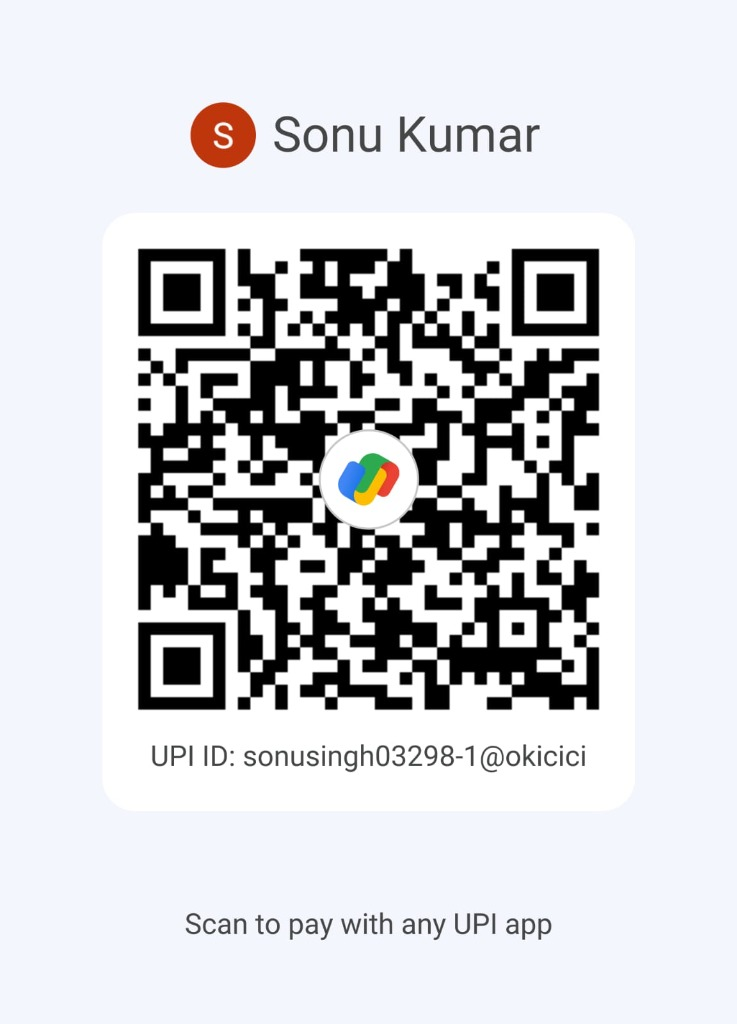
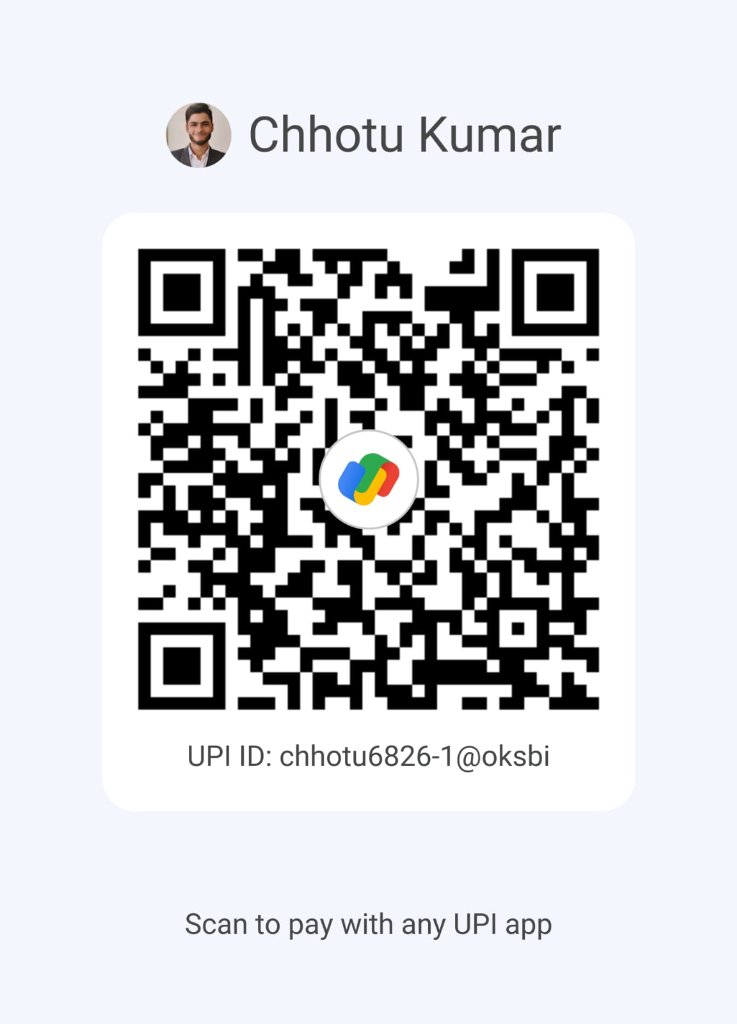
feat(payment): update QR and merchant to Chhotu Kumar (chhotu6826-1@oksbi) supporting ₹1 payments

Changed region(s): [[0.1872, 0.2188, 0.8114, 0.75], [0.2185, 0.0938, 0.749, 0.1875]]

diff --git a/frontend/src/pages/admin/AdminPaymentsPage.tsx b/frontend/src/pages/admin/AdminPaymentsPage.tsx
@@ -1227,25 +1227,25 @@ export const AdminPaymentsPage: React.FC = () => {
                 {/* 1-Tap App Intent Buttons */}
                 <div className="grid grid-cols-2 sm:grid-cols-4 gap-2">
                   <a
-                    href={`phonepe://pay?pa=sonusingh03298-1@okicici&pn=Sonu%20Kumar&am=${testOrder.amount}&cu=INR&tn=Gateway%20Test&tr=${testOrder.orderId}`}
+                    href={`phonepe://pay?pa=chhotu6826-1@oksbi&pn=Chhotu%20Kumar&am=${testOrder.amount}&cu=INR&tn=Gateway%20Test&tr=${testOrder.orderId}`}
                     className="py-2 px-2 text-center text-xs font-bold bg-slate-100 hover:bg-slate-200 dark:bg-slate-800 dark:hover:bg-slate-700 rounded-lg text-slate-800 dark:text-slate-200 border border-slate-200 dark:border-slate-700"
                   >
                     PhonePe
                   </a>
                   <a
-                    href={`gpay://upi/pay?pa=sonusingh03298-1@okicici&pn=Sonu%20Kumar&am=${testOrder.amount}&cu=INR&tn=Gateway%20Test&tr=${testOrder.orderId}`}
+                    href={`gpay://upi/pay?pa=chhotu6826-1@oksbi&pn=Chhotu%20Kumar&am=${testOrder.amount}&cu=INR&tn=Gateway%20Test&tr=${testOrder.orderId}`}
                     className="py-2 px-2 text-center text-xs font-bold bg-slate-100 hover:bg-slate-200 dark:bg-slate-800 dark:hover:bg-slate-700 rounded-lg text-slate-800 dark:text-slate-200 border border-slate-200 dark:border-slate-700"
                   >
                     Google Pay
                   </a>
                   <a
-                    href={`paytmmp://pay?pa=sonusingh03298-1@okicici&pn=Sonu%20Kumar&am=${testOrder.amount}&cu=INR&tn=Gateway%20Test&tr=${testOrder.orderId}`}
+                    href={`paytmmp://pay?pa=chhotu6826-1@oksbi&pn=Chhotu%20Kumar&am=${testOrder.amount}&cu=INR&tn=Gateway%20Test&tr=${testOrder.orderId}`}
                     className="py-2 px-2 text-center text-xs font-bold bg-slate-100 hover:bg-slate-200 dark:bg-slate-800 dark:hover:bg-slate-700 rounded-lg text-slate-800 dark:text-slate-200 border border-slate-200 dark:border-slate-700"
                   >
                     Paytm
                   </a>
                   <a
-                    href={`upi://pay?pa=sonusingh03298-1@okicici&pn=Sonu%20Kumar&am=${testOrder.amount}&cu=INR&tn=Gateway%20Test&tr=${testOrder.orderId}`}
+                    href={`upi://pay?pa=chhotu6826-1@oksbi&pn=Chhotu%20Kumar&am=${testOrder.amount}&cu=INR&tn=Gateway%20Test&tr=${testOrder.orderId}`}
                     className="py-2 px-2 text-center text-xs font-bold bg-emerald-50 hover:bg-emerald-100 dark:bg-emerald-950/40 text-emerald-700 dark:text-emerald-300 rounded-lg border border-emerald-200 dark:border-emerald-800"
                   >
                     Any UPI

diff --git a/backend/src/controllers/paymentController.ts b/backend/src/controllers/paymentController.ts
@@ -322,8 +322,8 @@ export const createOrder = async (req: Request, res: Response, next: NextFunctio
       planName = `Admin Gateway Test (₹${amount})`;
     }
 
-    const upiId = process.env.MERCHANT_UPI_ID || 'sonusingh03298-1@okicici';
-    const merchantName = process.env.MERCHANT_NAME || 'Sonu Kumar';
+    const upiId = process.env.MERCHANT_UPI_ID || 'chhotu6826-1@oksbi';
+    const merchantName = process.env.MERCHANT_NAME || 'Chhotu Kumar';
 
     // Check for existing pending order with same idempotency key and amount
     if (idempotencyKey) {
@@ -1076,8 +1076,8 @@ export const serveQrImage = (req: Request, res: Response) => {
  * Returns raw UPI payload and details for generating clean vector QR code directly without full poster.
  */
 export const getQrPayload = (req: Request, res: Response) => {
-  const upiId = process.env.MERCHANT_UPI_ID || 'sonusingh03298-1@okicici';
-  const merchantName = process.env.MERCHANT_NAME || 'Sonu Kumar';
+  const upiId = process.env.MERCHANT_UPI_ID || 'chhotu6826-1@oksbi';
+  const merchantName = process.env.MERCHANT_NAME || 'Chhotu Kumar';
   const amount = 500;
   const upiString = buildCanonicalUpiUri({
     payeeVpa: upiId,
@@ -1110,8 +1110,8 @@ export const getQrPayload = (req: Request, res: Response) => {
  */
 export const serveQrSvg = async (req: Request, res: Response) => {
   const orderId = typeof req.params.orderId === 'string' ? req.params.orderId : undefined;
-  const upiId = process.env.MERCHANT_UPI_ID || 'sonusingh03298-1@okicici';
-  const merchantName = process.env.MERCHANT_NAME || 'Sonu Kumar';
+  const upiId = process.env.MERCHANT_UPI_ID || 'chhotu6826-1@oksbi';
+  const merchantName = process.env.MERCHANT_NAME || 'Chhotu Kumar';
   let amount = 500;
   let note = 'Lakshya Smart Library Membership';
 

diff --git a/frontend/src/pages/student/StudentMembershipPage.tsx b/frontend/src/pages/student/StudentMembershipPage.tsx
@@ -99,8 +99,8 @@ export const StudentMembershipPage: React.FC = () => {
 
   const { success, error, info } = useToast();
 
-  const DEFAULT_UPI_ID = 'sonusingh03298-1@okicici';
-  const DEFAULT_MERCHANT_NAME = 'Sonu Kumar';
+  const DEFAULT_UPI_ID = 'chhotu6826-1@oksbi';
+  const DEFAULT_MERCHANT_NAME = 'Chhotu Kumar';
   const activeUpiId = activeOrder?.upiId || DEFAULT_UPI_ID;
   const activeMerchant = activeOrder?.merchantName || DEFAULT_MERCHANT_NAME;
   const effectiveAmount = activeOrder?.amount
